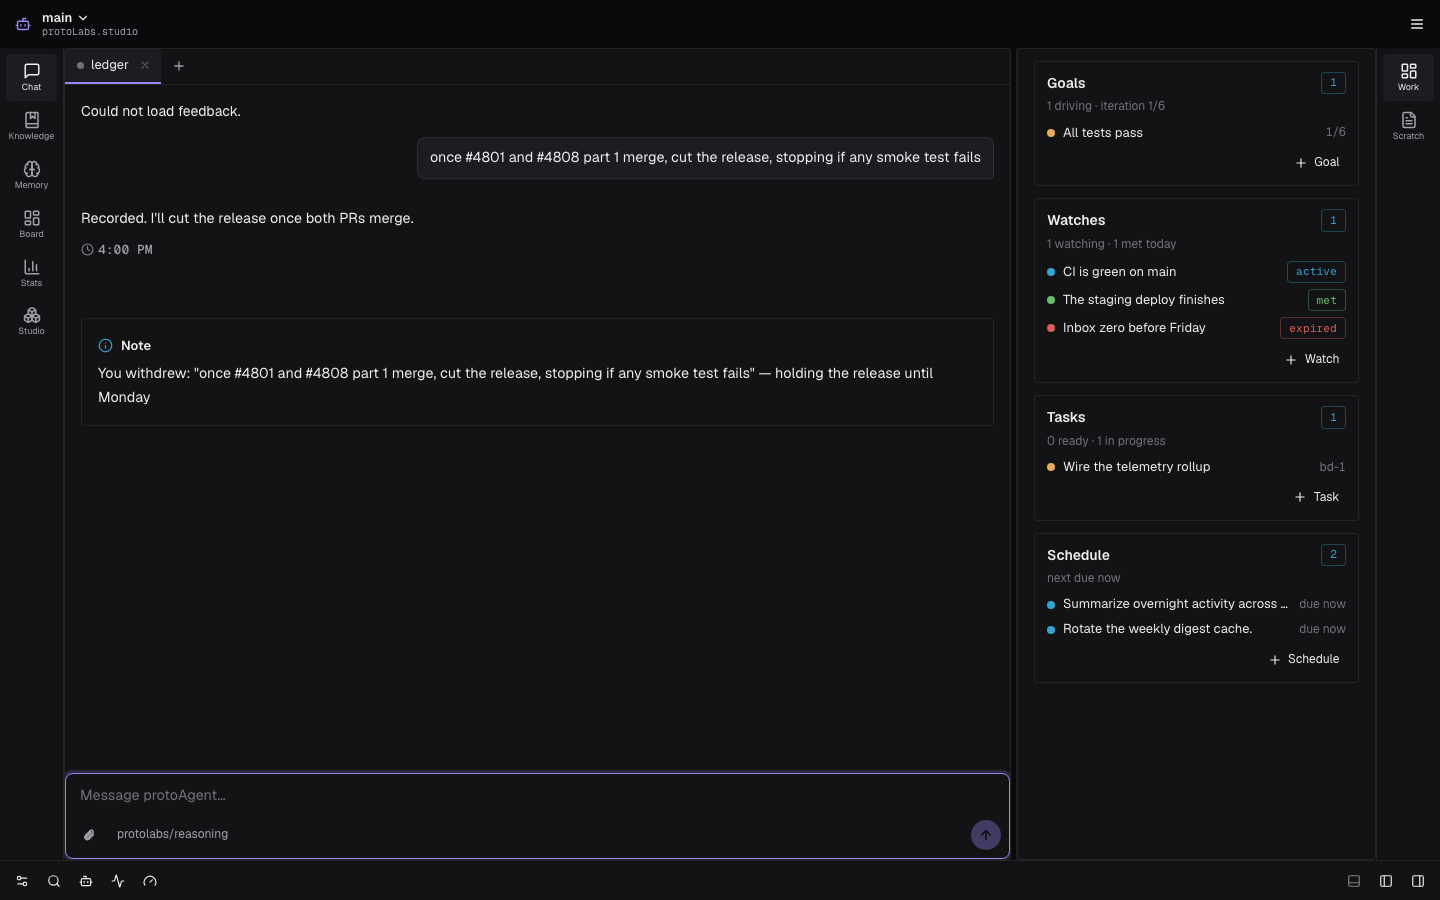
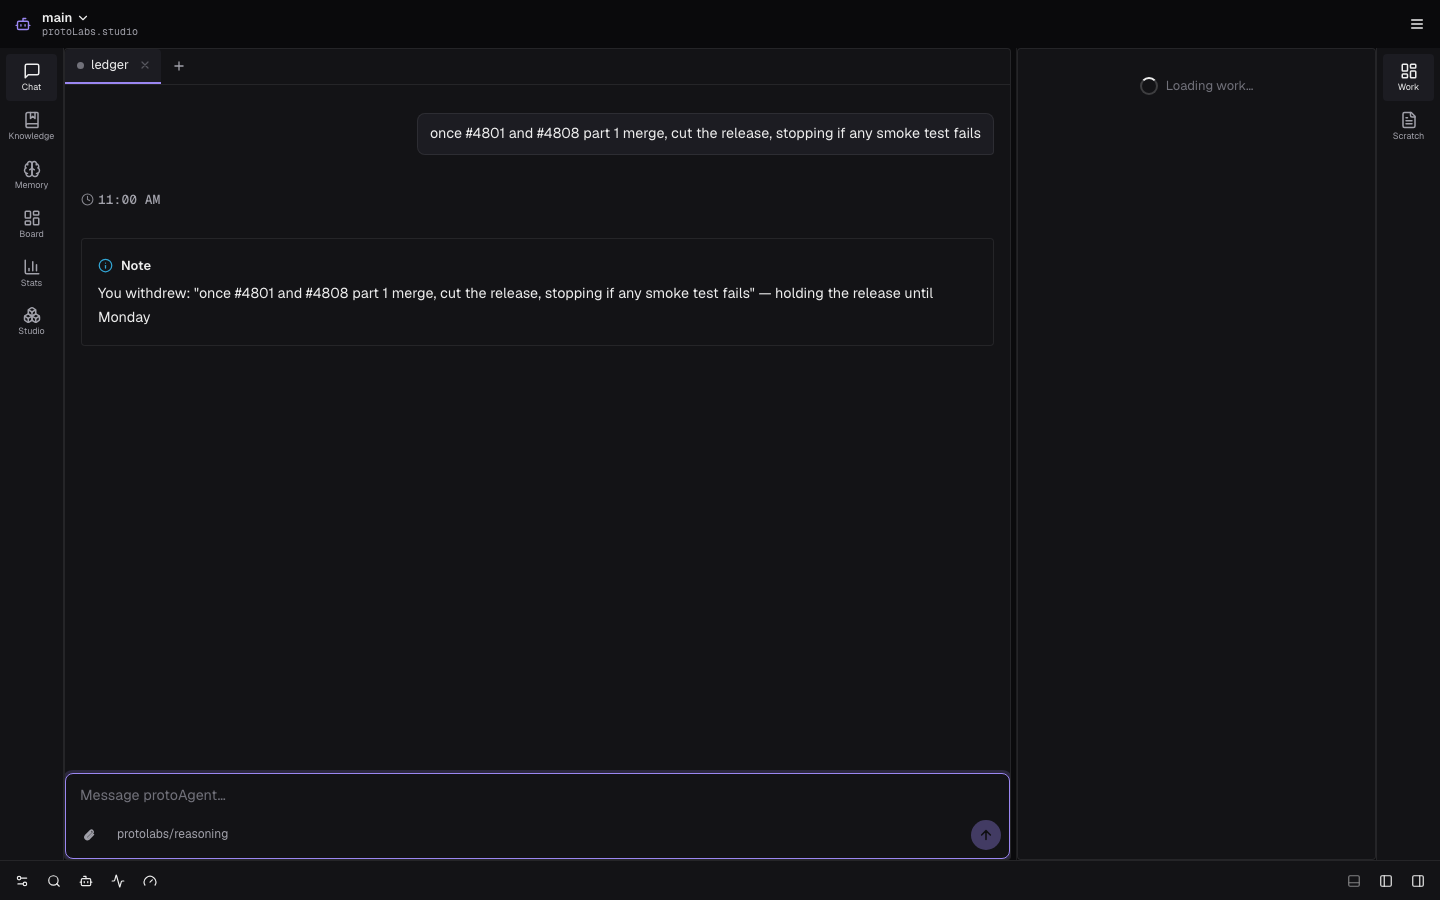
feat: Directive ledger (2c/2c, console mount — HUMAN-GATED DRAFT): mount the strip above GoalRunStrip and the drawer, client /directives + tab-menu entry points, withdrawal note as a quiet transcript row, screenshots at 1440/390 light/dark (#4861)

diff --git a/apps/web/e2e/directive-ledger.spec.ts b/apps/web/e2e/directive-ledger.spec.ts
@@ -101,6 +101,7 @@ async function mockDirectives(page: Page, state: State) {
  *  "connecting" with no error banner and no refetch loop, and an empty server session index +
  *  turns so the seeded localStorage transcript is authoritative. */
 async function routeBoot(page: Page) {
+  await page.route("**/api/feedback?**", (route) => route.fulfill({ json: { enabled: false, tracing_enabled: false, turns: [] } }));
   await page.route("**/api/background", (route) => route.fulfill({ json: { enabled: true, jobs: [] } }));
   await page.route("**/api/events**", () => {
     /* hold the SSE connection open: no frames, no close, no reconnect churn */
@@ -302,7 +303,7 @@ test("the withdraw flow: Withdraw… → reason → Withdraw moves the entry to 
   await expect(page.locator(".chat-user-text", { hasText: "You withdrew" })).toHaveCount(0);
 });
 
-test("a bare /directives with no argument opens the drawer (its palette entry point)", async ({ page }) => {
+test("a bare /directives with no argument opens the drawer", async ({ page }) => {
   await seed(page, { theme: "light" });
   await routeBoot(page);
   await mockDirectives(page, { rows: active1(), fail: false });
@@ -312,4 +313,67 @@ test("a bare /directives with no argument opens the drawer (its palette entry po
   await expect(drawer(page)).toBeHidden();
   await openViaCommand(page);
   await expect(drawer(page).getByText(/What this agent believes you've allowed it to do/)).toBeVisible();
+});
+
+test("the palette opens standing instructions even after the chat panel was collapsed", async ({ page }) => {
+  await seed(page, { theme: "light" });
+  await routeBoot(page);
+  await mockDirectives(page, { rows: active1(), fail: false });
+  await page.setViewportSize({ width: 1440, height: 900 });
+  await page.goto("/app/", { waitUntil: "load" });
+
+  await page.getByTestId("toggle-left").click();
+  await expect(page.locator(".pl-appshell__col--left")).toHaveCount(0);
+  await page.keyboard.press("ControlOrMeta+Shift+k");
+  const palette = page.locator(".pl-cmdk__panel");
+  await palette.locator(".pl-cmdk-commands__input").fill("/directives");
+  const command = page.getByRole("option", { name: /\/directives ·/ });
+  await expect(command).toHaveCount(1);
+  await command.click();
+  await expect(palette).toBeHidden();
+  await expect(drawer(page)).toBeVisible();
+  await expect(drawer(page)).toContainText(RELEASE_QUOTE);
+});
+
+test("the tab menu opens standing instructions and can reopen it after dismissal", async ({ page }) => {
+  await seed(page, { theme: "light" });
+  await routeBoot(page);
+  await mockDirectives(page, { rows: active1(), fail: false });
+  await page.setViewportSize({ width: 1440, height: 900 });
+  await page.goto("/app/", { waitUntil: "load" });
+
+  for (let attempt = 0; attempt < 2; attempt++) {
+    await page.locator(".pl-tabbar__tab").first().click({ button: "right" });
+    await page.locator(".pl-menu").getByText("Standing instructions", { exact: true }).click();
+    await expect(drawer(page)).toBeVisible();
+    await expect(drawer(page)).toContainText(RELEASE_QUOTE);
+    await page.keyboard.press("Escape");
+    await expect(drawer(page)).toBeHidden();
+  }
+});
+
+test("the tab menu opens the ledger of an unmounted, inactive session", async ({ page }) => {
+  await seed(page, { theme: "light" });
+  await page.addInitScript(() => {
+    const key = "protoagent.chat.sessions";
+    const saved = JSON.parse(localStorage.getItem(key)!);
+    saved.sessions.push({ id: "other-ledger", title: "Other ledger", createdAt: 3, updatedAt: 3, messages: [] });
+    localStorage.setItem(key, JSON.stringify(saved));
+  });
+  await routeBoot(page);
+  await mockDirectives(page, { rows: active1(), fail: false });
+  await page.route("**/api/chat/sessions/other-ledger/directives", (route) => route.fulfill({ json: {
+    directives: [row({ id: "dir-b10001", session_id: "other-ledger", quote: "Keep this other chat private" })],
+    in_force: 1,
+  } }));
+  await page.setViewportSize({ width: 1440, height: 900 });
+  await page.goto("/app/", { waitUntil: "load" });
+
+  await expect(page.locator(".chat-session-slot")).toHaveCount(1);
+  await page.locator(".pl-tabbar__tab").filter({ hasText: "Other ledger" }).click({ button: "right" });
+  await page.locator(".pl-menu").getByText("Standing instructions", { exact: true }).click();
+  await expect(drawer(page)).toBeVisible();
+  await expect(drawer(page)).toContainText("Keep this other chat private");
+  await expect(drawer(page)).not.toContainText(RELEASE_QUOTE);
+  await expect(page.locator(".chat-session-slot")).toHaveCount(1);
 });

diff --git a/apps/web/src/chat/ChatSessionSlot.tsx b/apps/web/src/chat/ChatSessionSlot.tsx
@@ -45,7 +45,6 @@ import {
 import { BackgroundWorkStrip } from "./BackgroundWorkStrip";
 import { GoalRunStrip } from "./GoalRunStrip";
 import { DirectiveStrip } from "./DirectiveStrip";
-import { DirectiveDrawer } from "./DirectiveDrawer";
 import { messageId } from "./messageId";
 import { sentAttachments } from "./imageThumbnails";
 import { readyNativeAttachments, readyNativeImages, useAttachments } from "./useAttachments";
@@ -352,27 +351,6 @@ export function ChatSessionSlot({
   // protoAgent…" in the composer.
   const chatAgentName = brandName(runtime?.identity?.name);
   const openGlobalSettings = useUI((st) => st.openGlobalSettings);
-  // Standing-instructions drawer (#4861): a counter in the ui store is bumped by this
-  // session's ledger strip "View" button, by a bare `/directives`, and by the chat-tab
-  // context menu — each via `openDirectives(sessionId)`. The request NAMES a session, so
-  // only the slot it names opens its own drawer (the DS Drawer portals to <body>, so it
-  // shows even when that slot is a cached, hidden tab — e.g. a right-click on an inactive
-  // tab). `n` rising re-opens it after a close; the ref guards the initial mount so a
-  // stale request from a previous open doesn't pop the drawer on first render. It is
-  // SEEDED from the request already standing for this session (the store outlives a slot
-  // remount, and `n` only ever climbs from 1), so a remount treats that request as already
-  // consumed and only a FRESH bump opens the drawer.
-  const directivesRequest = useUI((st) => st.directivesRequest);
-  const [directivesOpen, setDirectivesOpen] = useState(false);
-  const lastDirectivesN = useRef(
-    directivesRequest?.sessionId === sessionId ? directivesRequest.n : 0,
-  );
-  useEffect(() => {
-    if (!directivesRequest || directivesRequest.sessionId !== sessionId) return;
-    if (directivesRequest.n === lastDirectivesN.current) return;
-    lastDirectivesN.current = directivesRequest.n;
-    setDirectivesOpen(true);
-  }, [directivesRequest, sessionId]);
   const visionModel = Boolean(runtime?.model?.vision);
   // A configured vision model can DESCRIBE images for a text-only chat model (#1381), so an
   // image attaches via the pipeline instead of erroring.
@@ -1945,7 +1923,6 @@ export function ChatSessionSlot({
             work). The ledger strip is idle-collapsed to zero height when nothing is active
             (#4861, sibling of the background-work strip). */}
         <DirectiveStrip sessionId={sessionId} />
-        <DirectiveDrawer sessionId={sessionId} open={directivesOpen} onClose={() => setDirectivesOpen(false)} />
         <GoalRunStrip sessionId={sessionId} />
         <BackgroundWorkStrip sessionId={sessionId} />
         {cast.length ? (

diff --git a/apps/web/src/chat/ChatSurface.tsx b/apps/web/src/chat/ChatSurface.tsx
@@ -2,7 +2,7 @@ import "./chat.css";
 import { Switch } from "@protolabsai/ui/forms";
 import { TabBar } from "@protolabsai/ui/navigation";
 import { EyeOff } from "lucide-react";
-import { useEffect, useState } from "react";
+import { useEffect, useRef, useState } from "react";
 import type { KeyboardEvent as ReactKeyboardEvent, MouseEvent as ReactMouseEvent } from "react";
 import { useQuery } from "@tanstack/react-query";
 
@@ -31,6 +31,8 @@ import { ADD_SELECTOR, isIncognitoAddClick, trackShiftHeld } from "./shiftCue";
 import { isEmptyChatSession, resolveGoalCloseDisposition, sessionsToClose } from "./bulkClose";
 import { NO_MEMORY_CHANGE, canClearSession, defaultMemoryChoice, retireChatSession, type ChatMemoryChoice } from "./sessionRetirement";
 import { ChatSessionSlot } from "./ChatSessionSlot";
+import { DirectiveDrawer } from "./DirectiveDrawer";
+import { useUI } from "../state/uiStore";
 
 // The composer predicates moved with ChatSessionSlot (#3841); re-exported so existing
 // importers (ChatSurface.test.tsx) keep importing them from here.
@@ -63,6 +65,16 @@ export function ChatSurface({
   // detached work the chat is waiting on, which the tab must not read as idle either.
   const backgroundSessions = useSessionsWithBackgroundWork();
   const currentSession = chat.sessions.find((session) => session.id === chat.currentSessionId) || null;
+  // Tabs outside the active-session pool have no slot. Host one drawer here so their
+  // context menus can open a ledger without selecting or mounting that chat.
+  const directivesRequest = useUI((state) => state.directivesRequest);
+  const [directivesSession, setDirectivesSession] = useState<string | null>(null);
+  const lastDirectivesN = useRef(directivesRequest?.n ?? 0);
+  useEffect(() => {
+    if (!directivesRequest || directivesRequest.n === lastDirectivesN.current) return;
+    lastDirectivesN.current = directivesRequest.n;
+    setDirectivesSession(directivesRequest.sessionId);
+  }, [directivesRequest]);
   const [pendingClose, setPendingClose] = useState<string | null>(null);
   // Bulk close (others/left/right): GOAL tabs still waiting for their Stop/Detach confirm AFTER
   // the one in `pendingClose`. Only goal tabs are queued — plain tabs close inline in
@@ -444,6 +456,12 @@ export function ChatSurface({
           />
         ))}
       </div>
+
+      {directivesSession && <DirectiveDrawer
+        sessionId={directivesSession}
+        open
+        onClose={() => setDirectivesSession(null)}
+      />}
 
       <ConfirmDialog
         open={pendingClose !== null}

diff --git a/apps/web/e2e/commands.spec.ts b/apps/web/e2e/commands.spec.ts
@@ -10,7 +10,7 @@ import { SLASH_COMMANDS } from "./fixtures.mjs";
 // everything else falls through to the SERVER `/goal`. The menu DEDUPS by token, so a command
 // that's both a client command and a server skill (`/goal`, `/clear`) appears ONCE, client-first
 // — the server duplicate is dropped.
-const CLIENT_SLASH = ["/new", "/clear", "/export", "/btw", "/trajectory", "/prompt", "/perf", "/usage", "/compact", "/effort", "/model", "/incognito", "/help", "/bypass", "/goal", "/watch"];
+const CLIENT_SLASH = ["/new", "/clear", "/export", "/directives", "/btw", "/trajectory", "/prompt", "/perf", "/usage", "/compact", "/effort", "/model", "/incognito", "/help", "/bypass", "/goal", "/watch"];
 // The server rows the menu shows, with client-token duplicates deduped away.
 const serverRows = () => SLASH_COMMANDS.map((c) => `/${c.name}`).filter((n) => !CLIENT_SLASH.includes(n));
 
